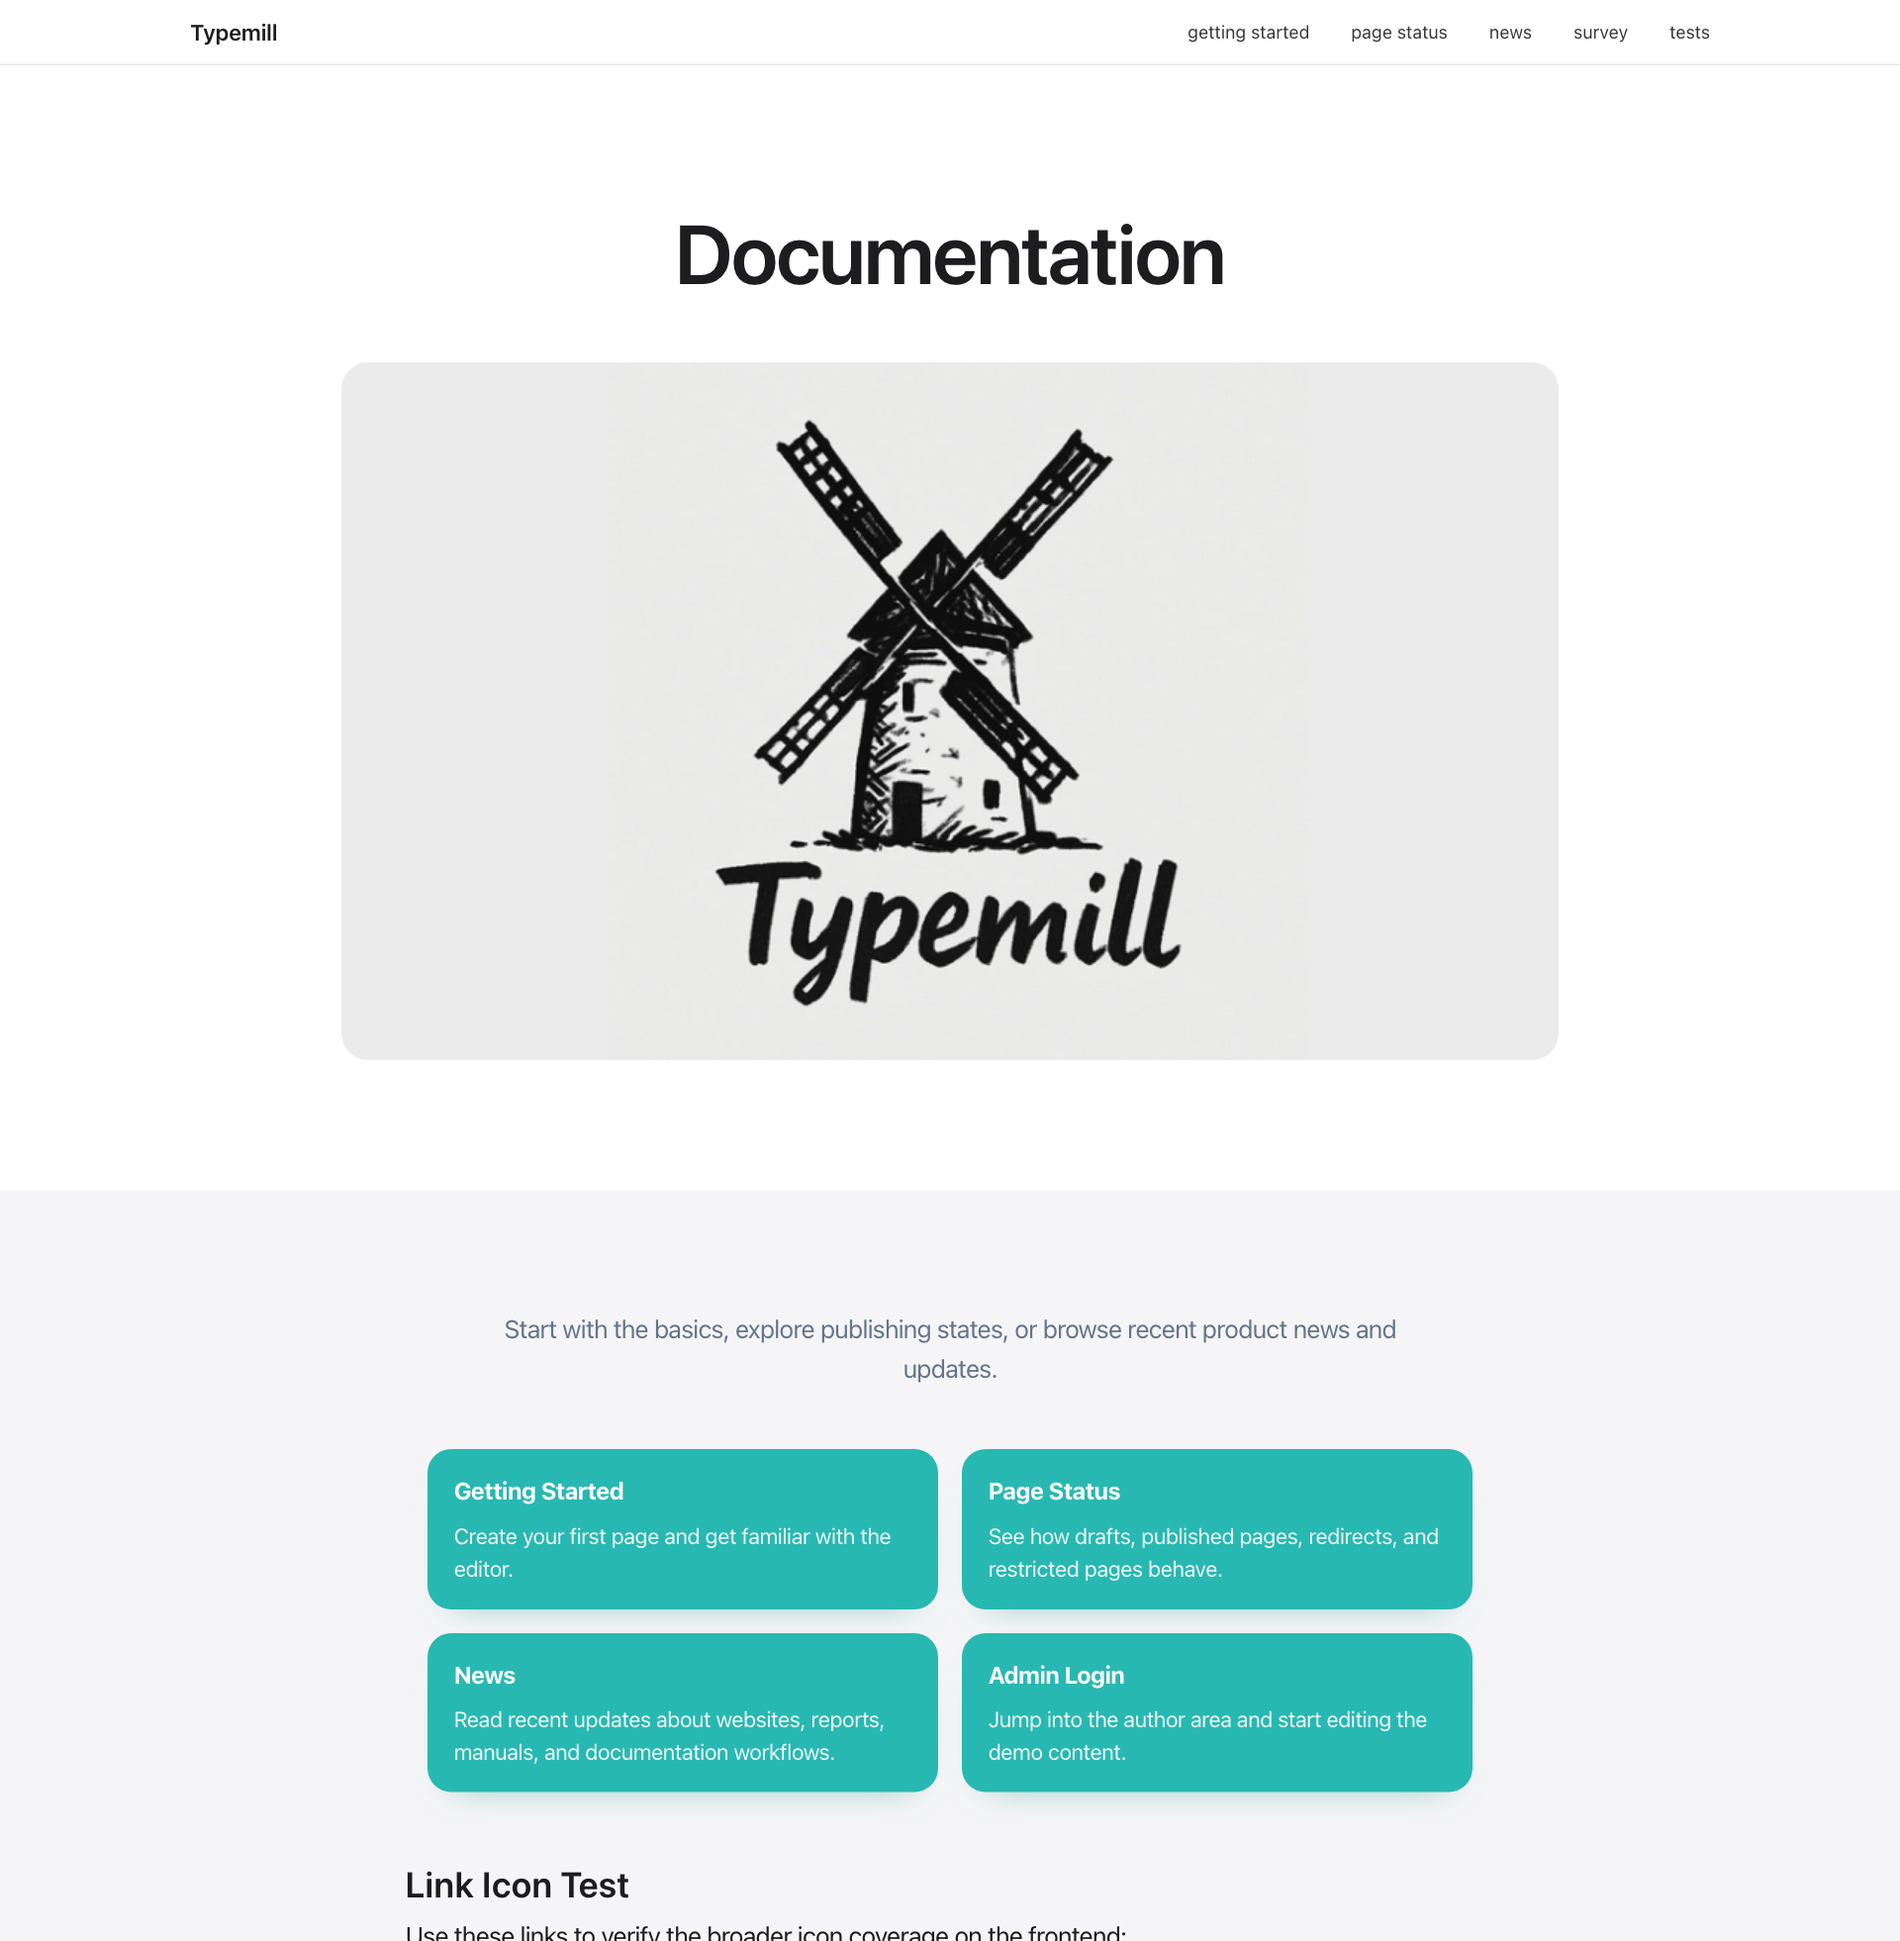
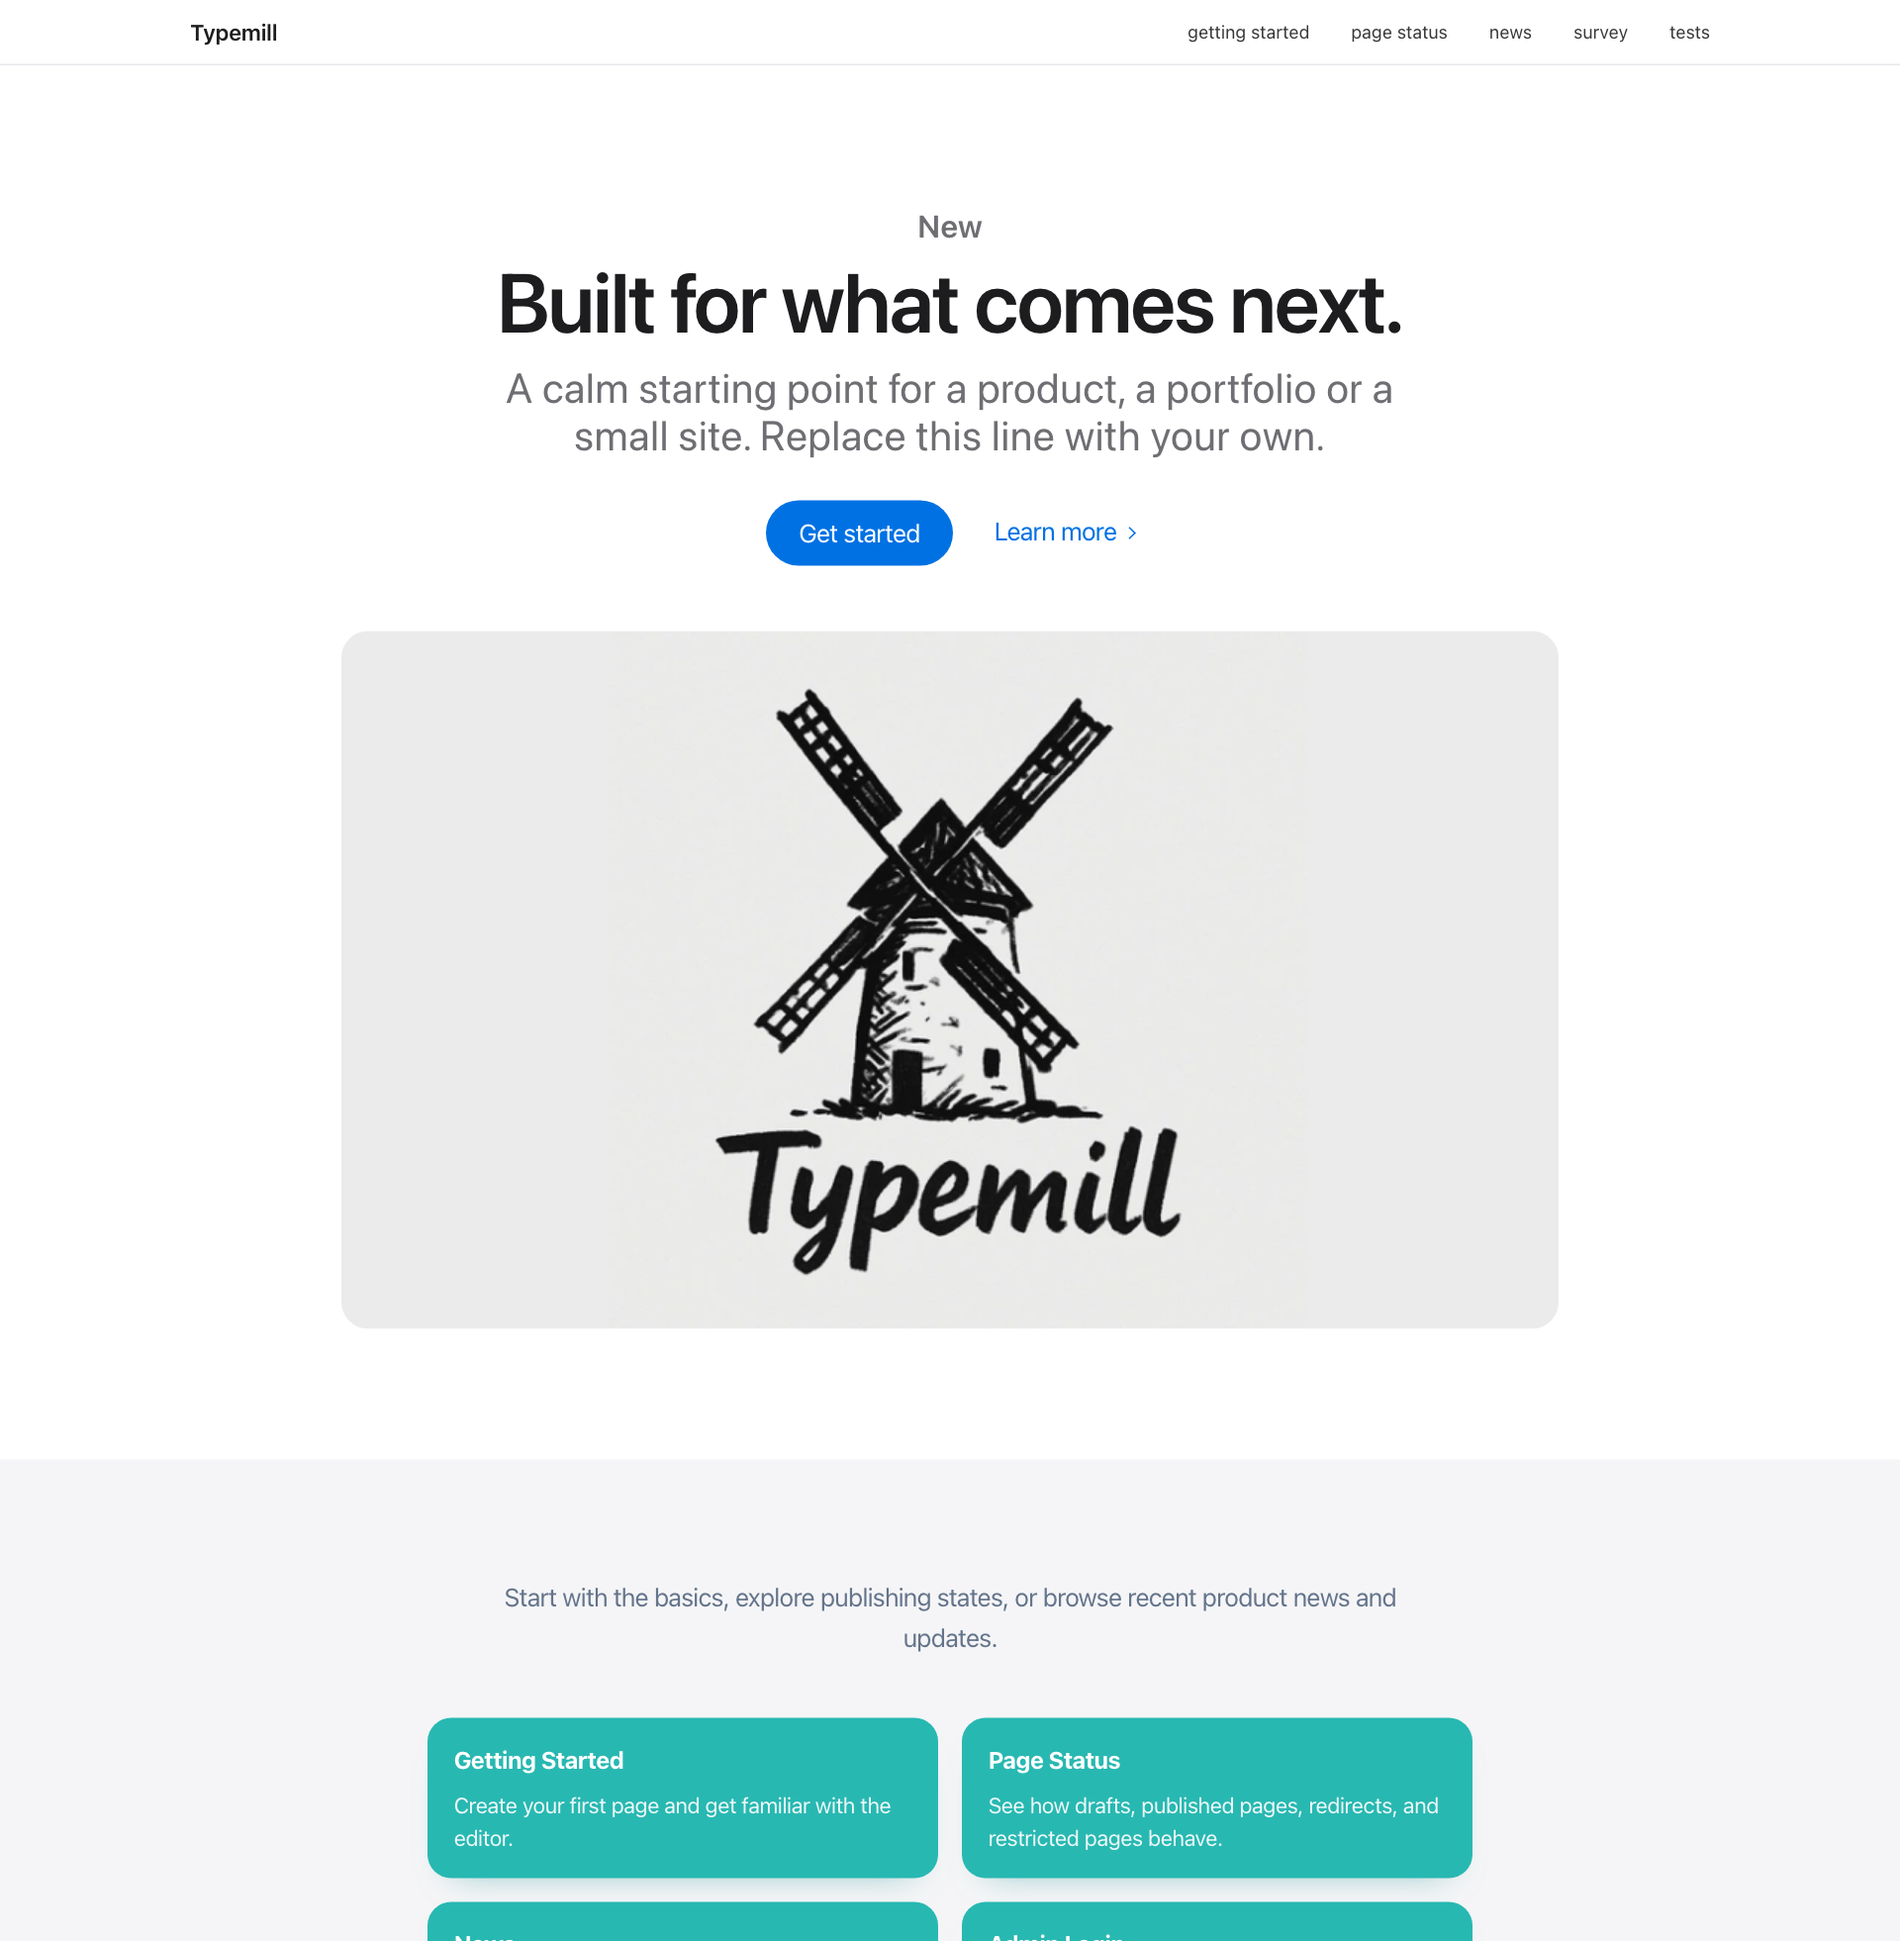
feat(themes): ship readymades for Lucid and Prism
Typemill lets a theme carry named presets of its settings, which the theme
screen lists with a load button and merges with any the user saves themselves.
Both themes were shipping none, so a fresh install showed an empty hero and no
hint of what the layout can do.

Lucid gets Product page, Documentation and Journal. Prism gets Developer
product, Documentation and Changelog. Each fills in the hero, the cards or
tiles, the labels and the footer, so the homepage looks finished the moment it
is loaded, and every value stays editable.

The preview images are recaptured with the first readymade applied, since a
preview of an unconfigured hero showed the theme at its least convincing.

Verified by loading a readymade through the admin and reading the result off
the frontend, which also confirms the setting keys and the list and checkbox
values in the presets are the ones the templates actually read.

Changed region(s): [[0.2188, 0.7466, 0.7812, 1.0], [0.25, 0.0933, 0.75, 0.6532], [0.4688, 0.6843, 0.5312, 0.7155]]

diff --git a/README.md b/README.md
@@ -22,8 +22,9 @@ black/white/transparent colors are automatically inverted in dark mode.
 A calm, spacious product-page theme: a translucent sticky header, full-bleed sections that alternate between white
 and light grey, large tightly tracked headlines, fully rounded buttons, rounded section tiles, and automatic dark
 mode. Ships no font files — the system font stack lets each platform render its own interface typeface. SVG images
-using only black, white and transparent are inverted in dark mode. Plain CSS with custom properties, so there is no
-build step.
+using only black, white and transparent are inverted in dark mode. Ships three readymades (product page,
+documentation, journal) that set the theme up in one click. Plain CSS with custom properties, so there is no build
+step.
 
 → See [`themes/lucid/README.md`](themes/lucid/README.md) for full documentation.
 
@@ -35,7 +36,8 @@ A vivid, developer-facing product theme: an angled gradient hero with the naviga
 it, a saturated indigo accent, deep navy bands, blue-tinted greys, tight corner radii, layered
 shadows and terminal-style code blocks. Numbered section cards and an optional dark call-to-action
 band on the homepage. Ships no font files, and automatic dark mode deepens the navy palette and inverts monochrome
-SVG images. Plain CSS with custom properties, so there is no build step.
+SVG images. Ships three readymades (developer product, documentation, changelog) that set the theme up in one
+click. Plain CSS with custom properties, so there is no build step.
 
 → See [`themes/prism/README.md`](themes/prism/README.md) for full documentation.
 

diff --git a/themes/prism/README.md b/themes/prism/README.md
@@ -76,6 +76,20 @@ falling back to Helvetica and Arial. Code uses the platform's monospace font.
 Nothing is loaded over the network, so there is no font flash, no third-party request, and no
 licensed typeface is redistributed.
 
+## Readymades
+
+The theme ships three presets. **System → Themes → Configure → Readymades**, then *load* one and
+save. Each fills in the hero, the cards and the labels so the homepage looks finished immediately,
+and every value stays editable afterwards.
+
+| Readymade | What it sets up |
+|---|---|
+| **Developer product** | Gradient hero with two buttons, numbered section cards, dark call-to-action band, two footer columns |
+| **Documentation** | Solid indigo hero instead of the gradient, no call-to-action band, author and date on every page |
+| **Changelog** | Homepage as a grid of posts under the gradient hero |
+
+Own combinations can be saved as readymades from the same panel.
+
 ## Monochrome SVG in dark mode
 
 Black-and-white line art vanishes against a dark background. Each SVG the page

diff --git a/themes/lucid/README.md b/themes/lucid/README.md
@@ -78,6 +78,20 @@ Grouped in **System → Themes → Lucid**:
 - **Colors** — accent colour and Custom CSS
 - **Footer** — up to three Markdown columns and a custom copyright line
 
+## Readymades
+
+The theme ships three presets. **System → Themes → Configure → Readymades**, then *load* one and
+save. Each fills in the hero, the labels and the footer so the homepage looks finished immediately,
+and every value stays editable afterwards.
+
+| Readymade | What it sets up |
+|---|---|
+| **Product page** | Hero with an eyebrow, a rounded button and a secondary link, section tiles, two footer columns |
+| **Documentation** | Breadcrumbs, author and date on every page, tiles that read as a table of contents |
+| **Journal** | Homepage as a grid of posts with images and a short intro above the list |
+
+Own combinations can be saved as readymades from the same panel.
+
 ## Monochrome SVG in dark mode
 
 Black-and-white line art vanishes against a dark background. Each SVG the page
